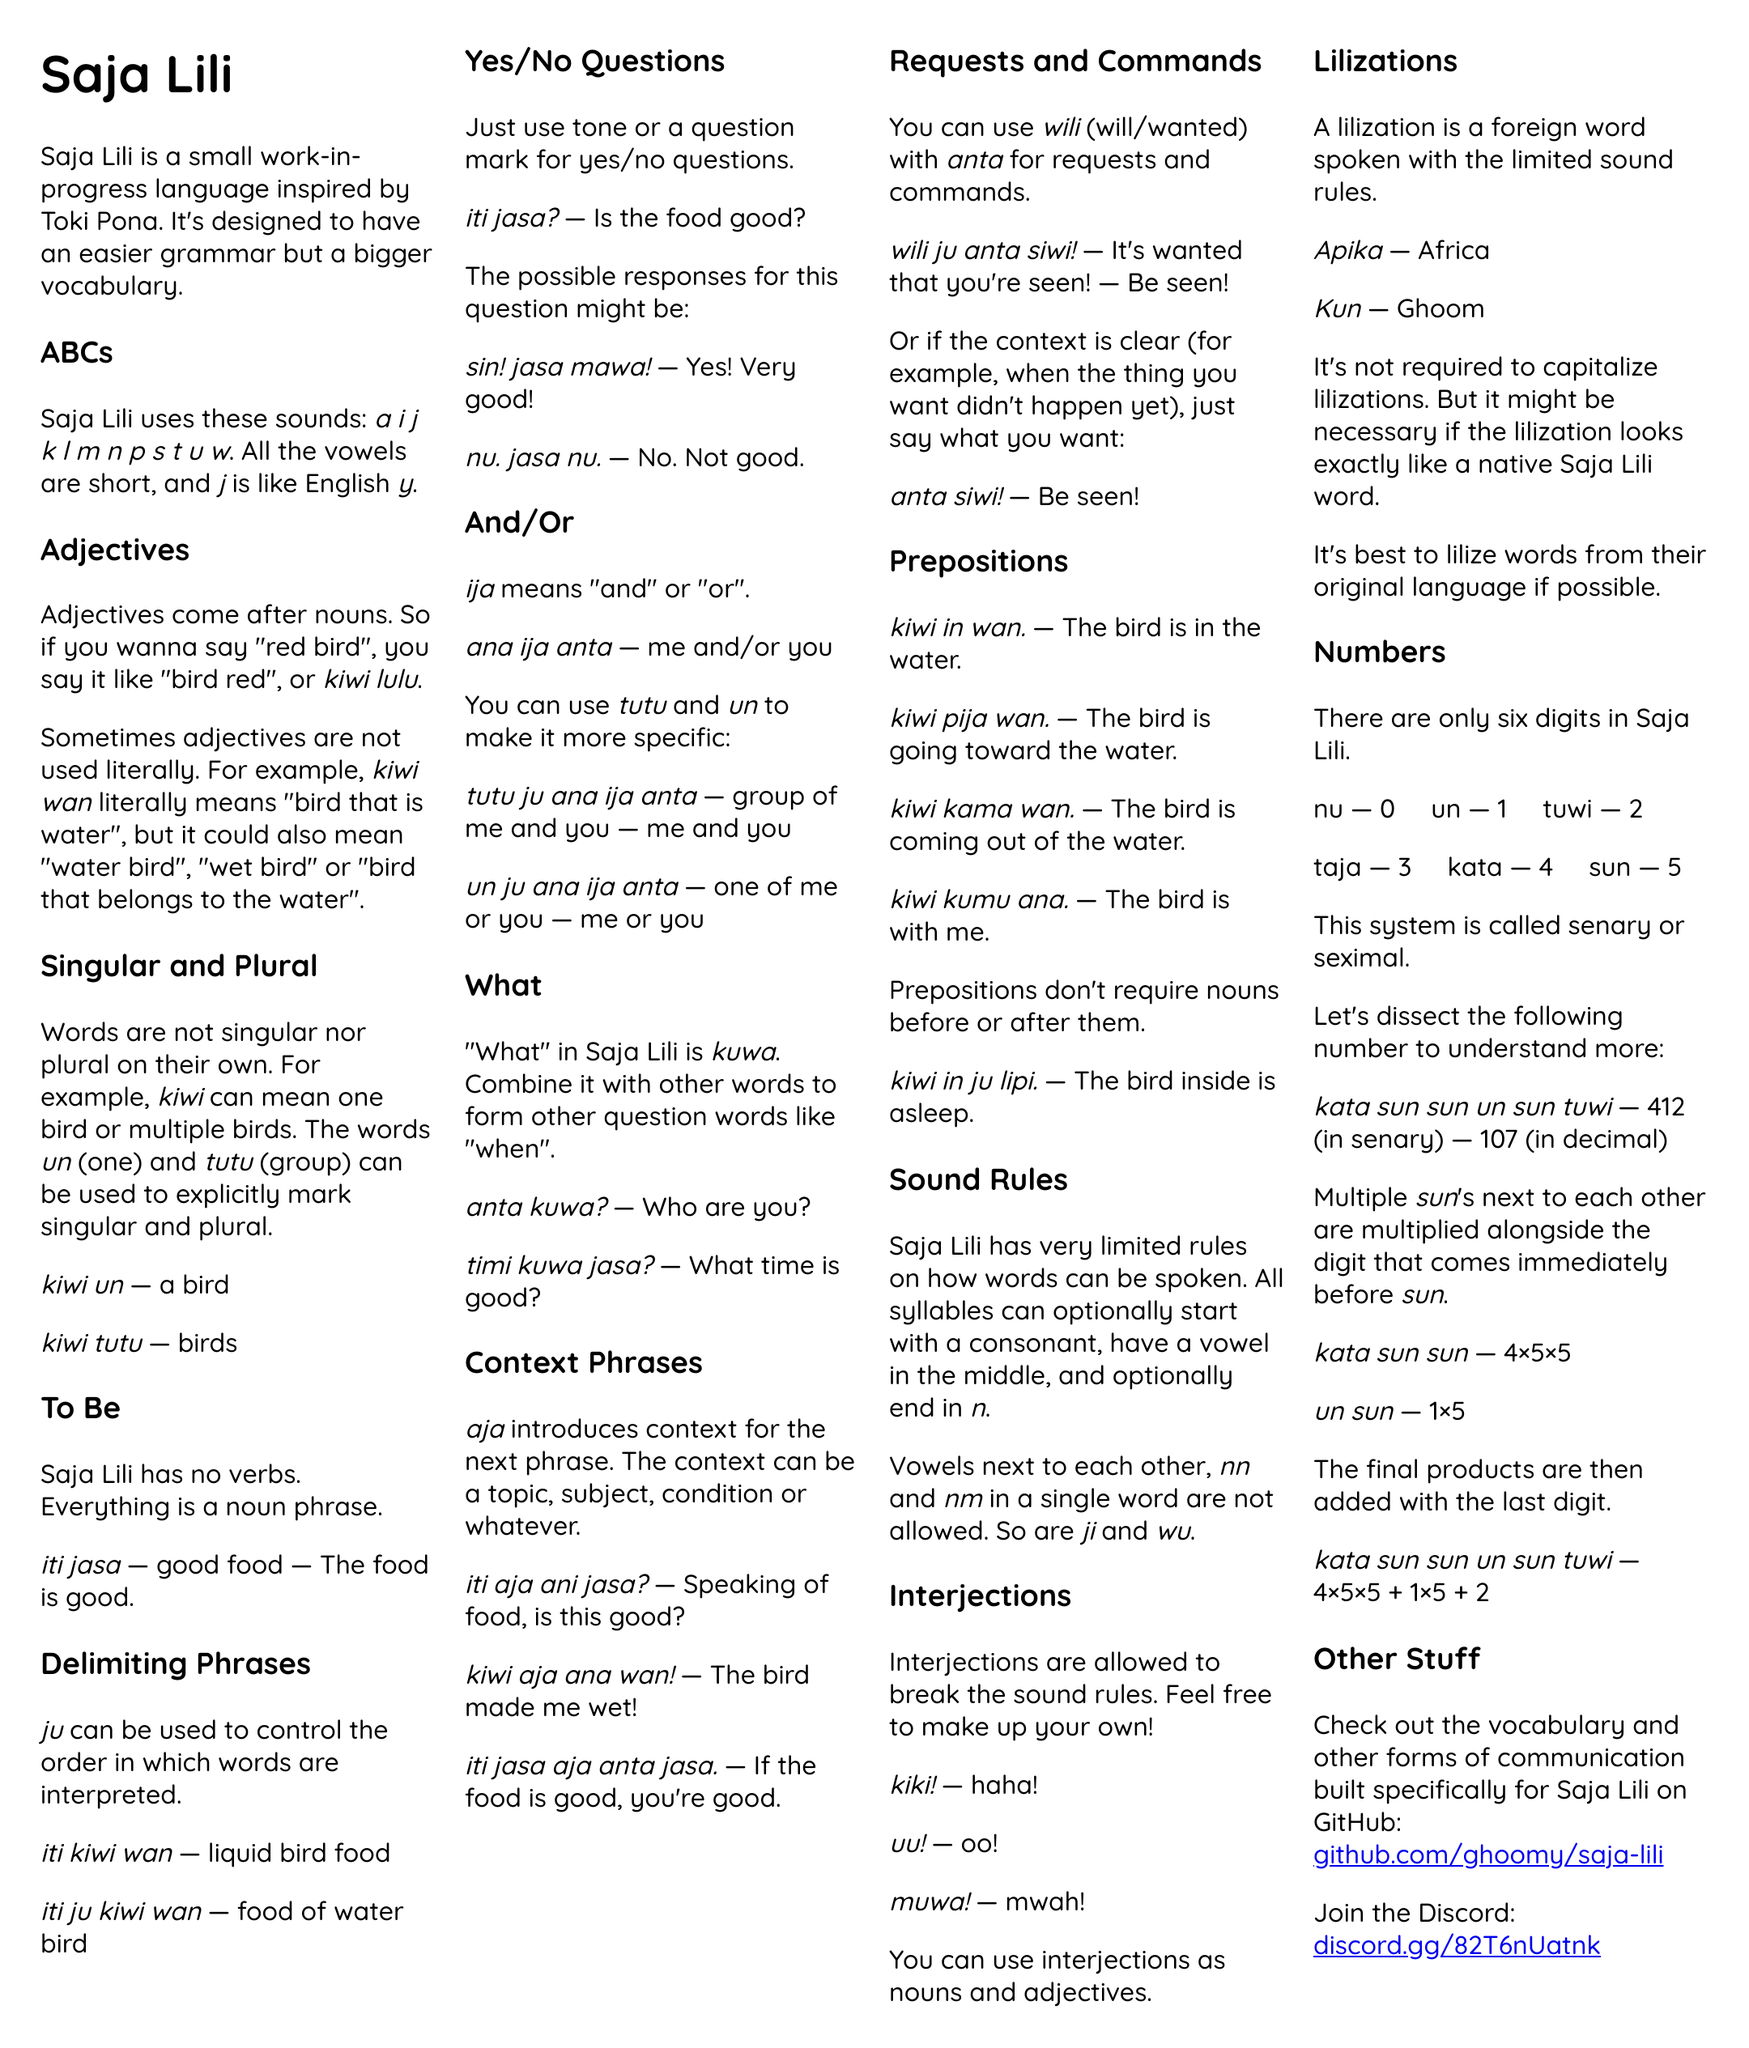
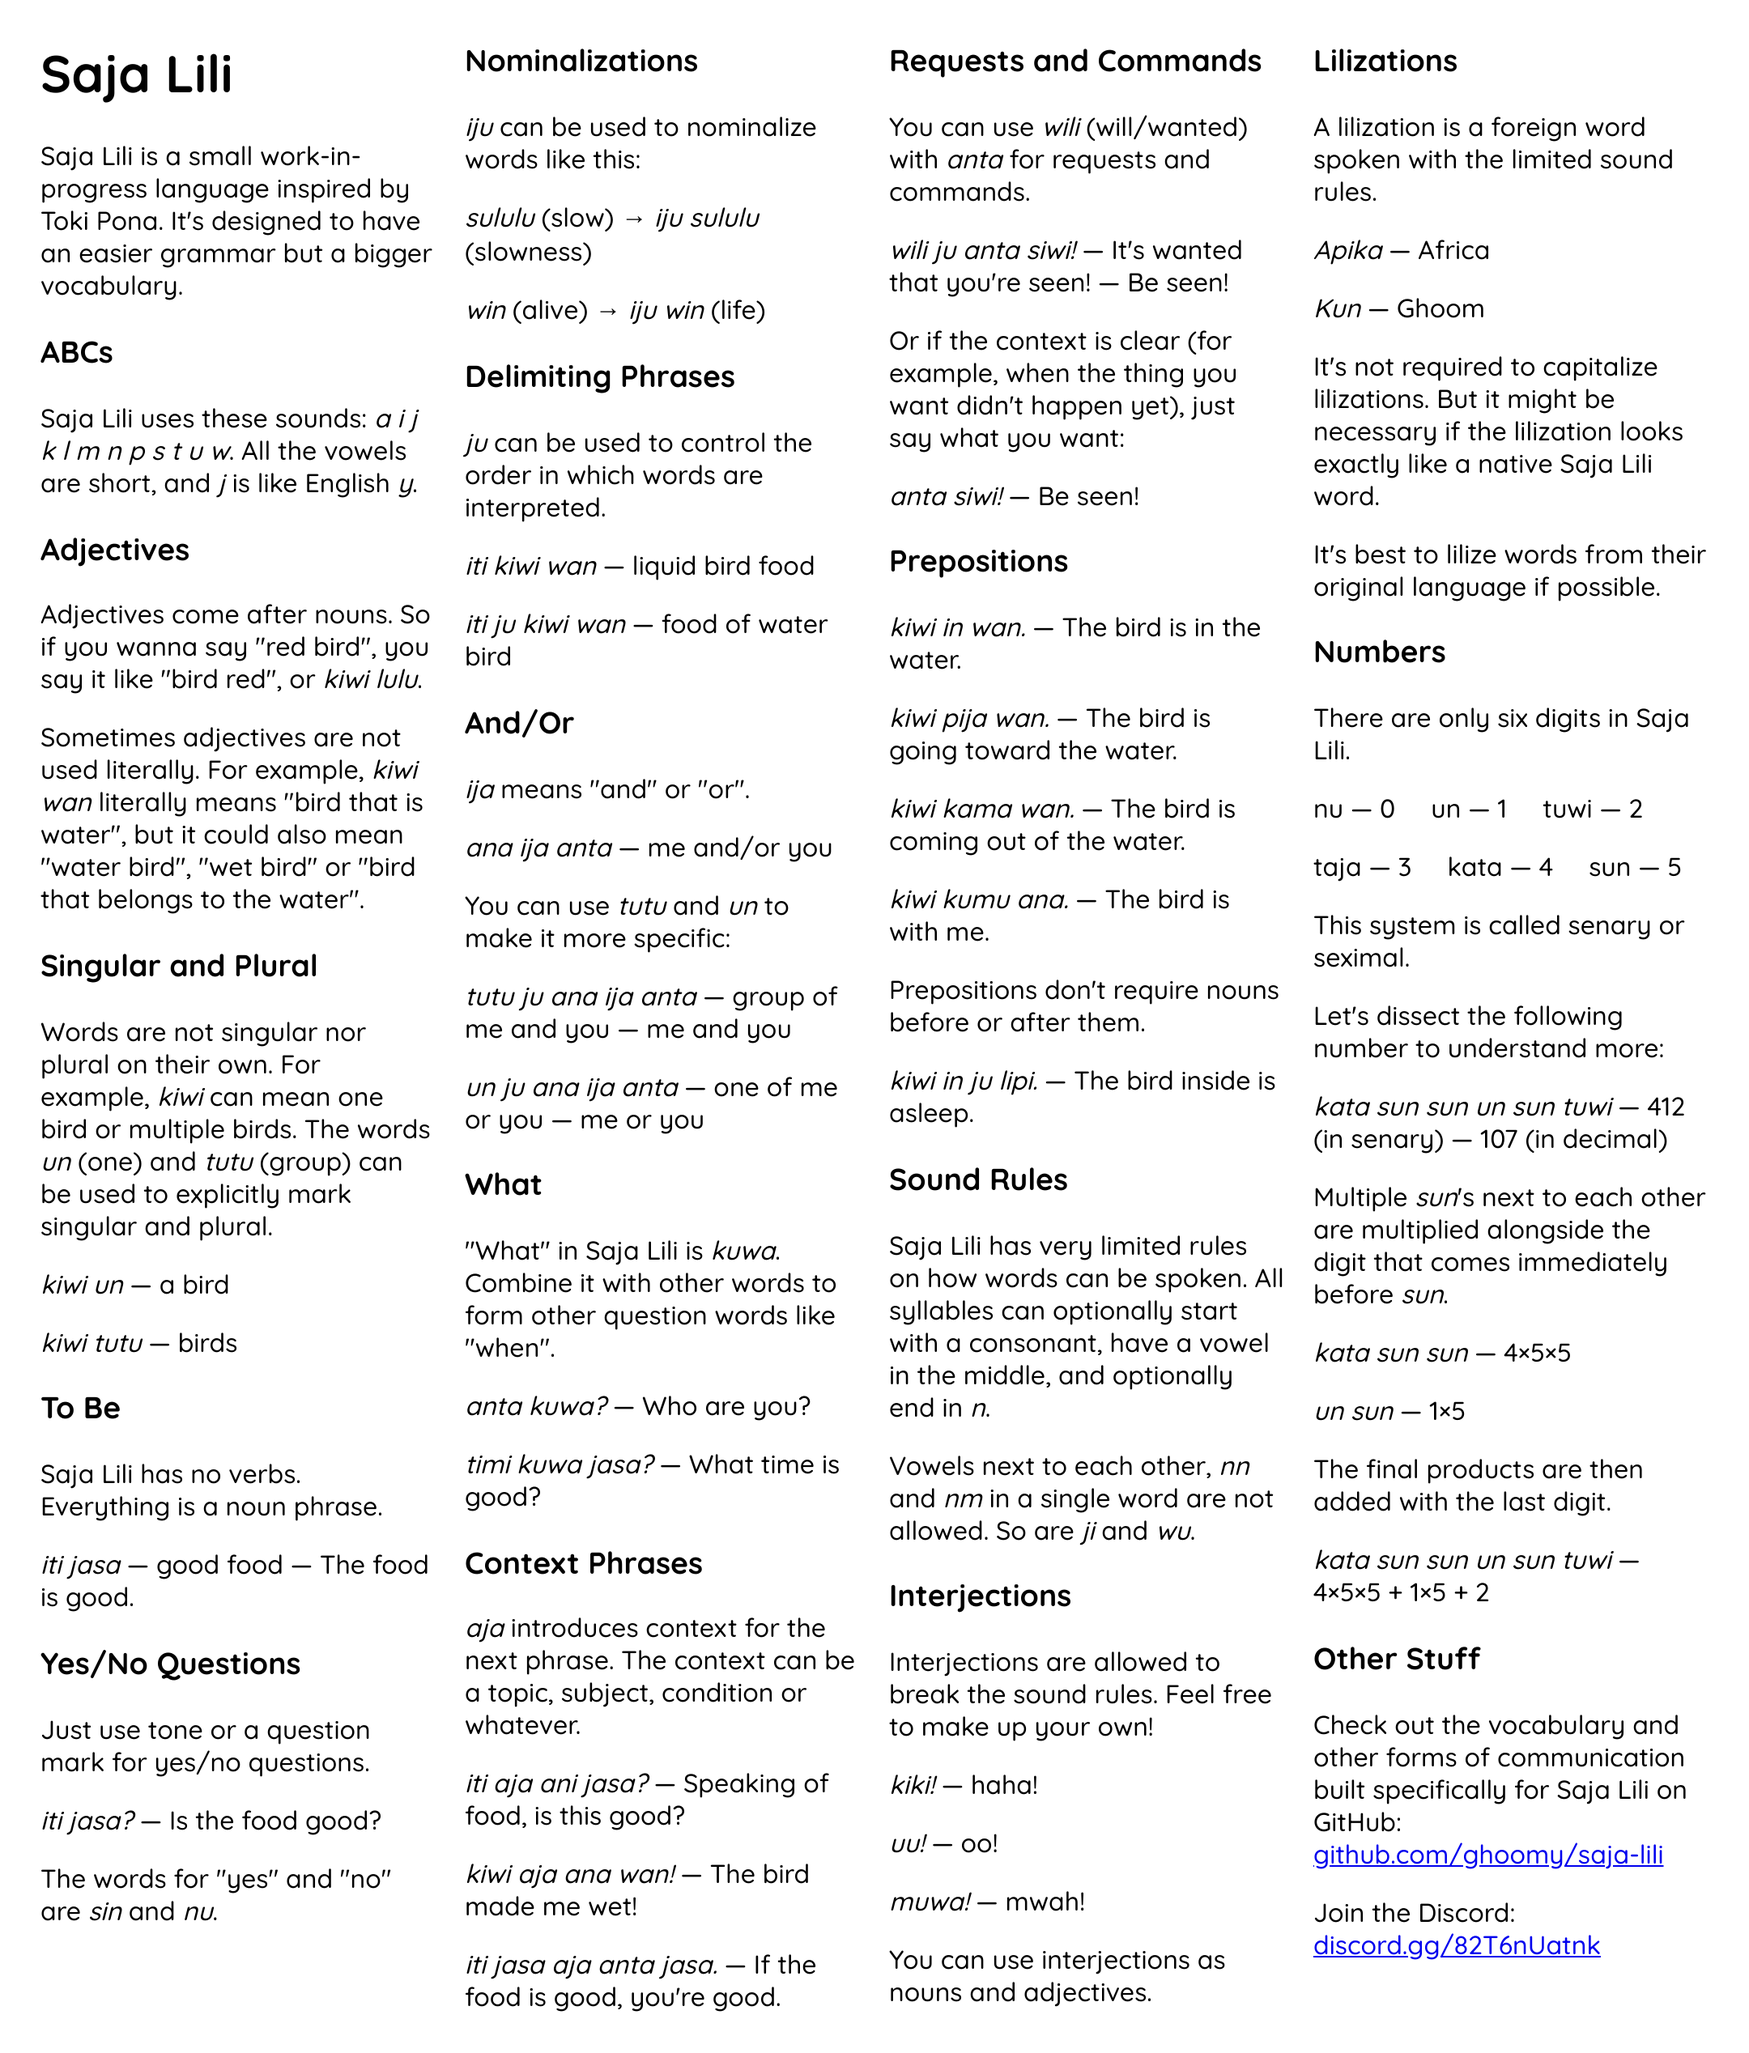
added "iju": the nominalizer

diff --git a/README.md b/README.md
@@ -1,16 +1,16 @@
-<!--head-->
-<!--link rel="preconnect" href="https://fonts.googleapis.com"-->
-<!--link rel="preconnect" href="https://fonts.gstatic.com" crossorigin=""-->
-<!--link href="https://fonts.googleapis.com/css2?family=Quicksand:wght@500;700&amp;display=swap" rel="stylesheet"-->
-<!--style--
+<head>
+<link rel="preconnect" href="https://fonts.googleapis.com">
+<link rel="preconnect" href="https://fonts.gstatic.com" crossorigin="">
+<link href="https://fonts.googleapis.com/css2?family=Quicksand:wght@500;700&amp;display=swap" rel="stylesheet">
+<style>
 * {font-family: "Quicksand";}
 td {vertical-align: top;}
-<!--/style-->
-<!--/head-->
+</style>
+</head>
 
-<!--table style="border-spacing: 1em; table-layout: fixed; width: 100%;"-->
-<!--tr-->
-<!--td style="width: 100%;"-->
+<table style="border-spacing: 1em; table-layout: fixed; width: 100%;">
+<tr>
+<td style="width: 100%;">
 
 # Saja Lili
 
@@ -40,6 +40,25 @@ Saja Lili has no verbs. Everything is a noun phrase.
 
 *iti jasa* — good food — The food is good.
 
+### Yes/No Questions
+
+Just use tone or a question mark for yes/no questions.
+
+*iti jasa?* — Is the food good?
+
+The words for "yes" and "no" are *sin* and *nu*.
+
+</td>
+<td style="width: 100%;">
+
+### Nominalizations
+
+*iju* can be used to nominalize words like this:
+
+*sululu* (slow) → *iju sululu* (slowness)
+
+*win* (alive) → *iju win* (life)
+
 ### Delimiting Phrases
 
 *ju* can be used to control the order in which words are interpreted.
@@ -47,21 +66,6 @@ Saja Lili has no verbs. Everything is a noun phrase.
 *iti kiwi wan* — liquid bird food
 
 *iti ju kiwi wan* — food of water bird
-
-<!--/td-->
-<!--td style="width: 100%;"-->
-
-### Yes/No Questions
-
-Just use tone or a question mark for yes/no questions.
-
-*iti jasa?* — Is the food good?
-
-The possible responses for this question might be:
-
-*sin! jasa mawa!* — Yes! Very good!
-
-*nu. jasa nu.* — No. Not good.
 
 ### And/Or
 
@@ -93,8 +97,8 @@ You can use *tutu* and *un* to make it more specific:
 
 *iti jasa aja anta jasa.* — If the food is good, you're good.
 
-<!--/td-->
-<!--td style="width: 100%;"-->
+</td>
+<td style="width: 100%;">
 
 ### Requests and Commands
 
@@ -138,8 +142,8 @@ Interjections are allowed to break the sound rules. Feel free to make up your ow
 
 You can use interjections as nouns and adjectives.
 
-<!--/td-->
-<!--td style="width: 100%;"-->
+</td>
+<td style="width: 100%;">
 
 ### Lilizations
 
@@ -183,6 +187,6 @@ Check out the vocabulary and other forms of communication built specifically for
 
 Join the Discord: [discord.gg/82T6nUatnk](https://discord.gg/82T6nUatnk)
 
-<!--/td-->
-<!--/tr-->
-<!--/table-->
+</td>
+</tr>
+</table>

diff --git a/dictionary.md b/dictionary.md
@@ -44,6 +44,10 @@ To search a word or definition, press Ctrl+F then type it (press Enter if you st
 
 **ija** — and / or
 
+## Special
+
+**iju** — nominalizer
+
 ## Interjections
 
 These are just ***some*** interjections I thought of:
